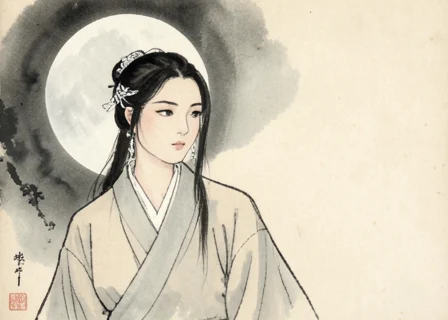
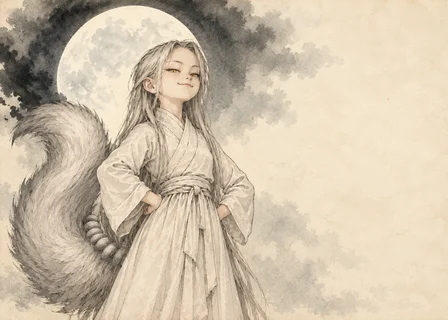
lingjing 银月: repaint her portrait and card as a girl of fourteen — 第一回 「看着比他大不了几岁」
Hanli 2026-10-01: 沈小满 is twelve, so 银月 should be a girl, not the grown
woman both pictures showed. Painted with Codex (gpt-5.5): silver hair past
the waist, barefoot, white robe, gold slit-pupil eyes, one tail with eight
furred stumps, chin up, hands on hips, a sly grin. The card follows the
portrait in the deck's ink-wash layout. Prompts in tools/paint-codex.py,
record in CREDITS.md, codex.json _credit, cards.json art_source.

diff --git a/lingjing/tools/paint-codex.py b/lingjing/tools/paint-codex.py
@@ -34,6 +34,9 @@ STYLE = ('Fine graphite and ink baimiao line drawing with a soft grey wash, on w
          'Chinese illustrated book. A single subject, plain empty background. No text, no characters, no calligraphy, '
          'no seal, no signature, no border, no frame, no dark edge or vignette — the paper runs to every edge. Ink and grey '
          'only, with at most a very faint warm tint; no strong colour.')
+YINYUE_FIX = ('Repaint the attached drawing; keep everything the same and change ONLY: at the root of the one big tail exactly '
+              'EIGHT short healed stubs, furred silver, in a small fan (not red, no raw flesh); golden irises with clear narrow '
+              'VERTICAL slit pupils. No fox ears.')
 OLD_CHINA = 'Set in old rural China (Ming dynasty dress), not Japanese, not Western.'
 
 PEOPLE = {
@@ -46,7 +49,10 @@ PEOPLE = {
   'jiujiu': 'A thin Chinese county-town bookkeeper in his thirties, a NEW neat blue-grey cotton scholar gown with a crossed collar (a light grey wash), a thin careful face, a folded paper in one hand and a small abacus hanging at his sash, a trace of old disappointment in his eyes. Full length, standing on bare paper — no black frame, no border, no dark background.',
   'laozhou': 'A sturdy middle-aged Chinese peasant farmer, plain face, patched cotton clothes, a straw rain cape over his shoulders, mud on his trouser legs, holding a burning pine torch. Full length.',
   'qulao': 'A very old Taoist temple steward, lean and straight, long white beard, stern eyes, plain grey Taoist robe, a bamboo broom in his hands. Full length.',
-  'yinyue': 'A young woman with long silver hair falling past her waist, golden eyes, barefoot, in a plain white robe, one silver fox tail behind her, a proud aloof expression. Full length.',
+  # 银月 — 第一回: 「看着比他大不了几岁」, 小满 is twelve (Hanli, 2026-10-01: the first portrait drew a grown woman).
+  # Repainted 2026-10-01 in two passes: this prompt (the kept roll), then the roll handed back with YINYUE_FIX.
+  'yinyue': "银月, a fox spirit queen in human form, as a GIRL of about fourteen or fifteen — clearly a young teenager, not a woman: a youthful round-chinned girl's face, a small slight not-yet-grown build, narrow shoulders, flat chest, short of stature, a young teen's proportions (head about one-sixth of her height). Completely modest and non-sexual: the robe closed high at the neck. Silver hair, very long and loose, falling straight to below her waist. Barefoot. A plain modest white robe with a crossed collar tied with a sash, snow-white with a faint watery sheen. Golden eyes (a faint gold tint) with narrow vertical slit pupils. ONE big fluffy silver fox tail; at its root eight short cut stumps. Chin slightly raised, looking down her nose, hands on her hips — proud and imperious, a bit hungry and impish, a sly half-grin. No fox ears. Full length.",
+
   'chuxiansheng': 'A Chinese Taoist lecturer of about fifty with a small goat beard, a sour sharp face, plain grey scholar robe with a crossed collar, holding a thread-bound Chinese book rolled in one hand. Full length.',
   'sunergou': 'A thin timid Chinese boy of fourteen, a worried face, a plain grey Taoist disciple robe with a crossed collar and cloth sash, cloth shoes, clutching a small hand-sewn cloth charm pouch to his chest. Full length.',
   'neimen-shijie': 'A composed Chinese Taoist girl disciple of about sixteen, hair in a high bun with a plain wooden pin, a plain pale blue Taoist robe, a straight double-edged Chinese jian sword at her back, calm sharp eyes. Full length.',

diff --git a/lingjing/tools/paint-cards.py b/lingjing/tools/paint-cards.py
@@ -30,7 +30,8 @@ SUBJECTS = {
   # ── 小随从 ──
   'xiaoyao': 'a small mischievous mountain imp crouching on a rock, thin limbs, big ears',
   'shanjing': 'a squat moss-covered hill spirit made of stone and roots, arms folded, standing guard',
-  'yinyue': 'a young woman in pale robes under a full moon, silver hairpin, calm and watchful',
+  # yinyue's card was repainted with Codex 2026-10-01 from her 图鉴 portrait (a girl of 14–15, not this woman); see CREDITS.md.
+  'yinyue': 'a silver-haired girl of fourteen in a white robe under a full moon, one silver fox tail, proud and impish',
   'luying': 'the shadow of a leaping deer over rippling water, antlers catching the light',
   'xianshi': 'a small bird carrying a pebble in its beak over grey sea waves',
   'leipu': 'a small thunder servant with a drum on its back, crackling sparks at its heels',

diff --git a/lingjing/worlds/jiuding/art/CREDITS.md b/lingjing/worlds/jiuding/art/CREDITS.md
@@ -132,3 +132,18 @@ The chapter has no story panels (his ruling, 2026-09-29). No outside source.
 ## 第十回 · 漳水立起 — set-piece stills (2026-09-30)
 
 `setpiece/zhang-a.webp`, `zhang-b.webp`, `zhang-c.webp`, `zhang-e.webp`, `zhang-f.webp` — five key frames for 卷一's 大场面 (the 漳水 standing up; 冰夷 on his two dragons; the trial; the 洛书 seal on the square four-legged 冀州鼎 under the river; the 鼎 rising at moonrise), following 10-第十回.md: painted with Codex CLI's image generation (gpt-5.5, 1536×1024), 2026-09-30, the frames with people given art/people/bingyi.webp, xiaoman.webp, doufu-xishi.webp (and for f art/items/fox-token.webp) as references, and e/f given a and c as style references. Hanli kept a, b, c and dropped d; e and f were repainted to his note (a square 方鼎 with four legs; 银月 curled inside the jacket, the token's second tail lit). Rejected on the way: a vignetted c, a crowned 冰夷, a photoreal round-鼎 e, a pasted-card e whose tiles Codex overlaid with code, a pendant-shaped token in f. Codex ran out of credits during the last e round; local FLUX (FLUX.2 klein 4B, four seeds) was tried for e and looked at, and did not reach the style of a–c (not underwater, a small child, random dots), so e is the first repaint. Every picture looked at. No outside source. Frame e repainted with Codex 2026-10-01 (tools/paint-setpiece-codex.py), the kept e handed in as the picture to repaint: the 洛书 counts now read 4 9 2 / 3 5 7 / 8 1 6, odd white, even black, all else as it was. The first roll had 8 for 7 and 12 for 8; a second pass on that roll fixed only those two tiles. Every tile counted by eye.
+
+## 银月 at fourteen — portrait and card repainted (2026-10-01)
+
+Hanli's note: 「沈小满12, 银月应该也差不多年纪吧……应该是个女孩子?」 — 第一回 has her 「看着比他大不了几岁」, and both
+the portrait and the card had drawn a grown woman. `people/yinyue.webp` (640×960, webp q84) was repainted with Codex
+CLI's image generation (gpt-5.5), 2026-10-01, from the prompt now in `tools/paint-codex.py`: a girl of fourteen or
+fifteen with a slight, not-yet-grown build in a modest white robe, silver hair past the waist, barefoot, gold
+slit-pupil eyes, one tail with eight stumps at its root, chin up, hands on hips, a sly half-grin. Two passes: the kept
+text-only roll was handed back to Codex to fix only the stumps and the eyes (`YINYUE_FIX`). Rejected on the way: three
+rolls with the old portrait as the style reference (each still a tall young woman), one with fox ears, a kept roll's
+five raw red stumps, and a re-roll whose stubs came out five or six. `cards/yinyue.webp` (448×320, webp q86) was
+repainted the same day with Codex, given the new portrait as the character and the old FLUX card as the ink-wash
+style and layout (the moon on the left); two first rolls without the portrait still read as a young lady with
+hairpins. The FLUX card of 2026-09-18 and the FLUX/Codex portraits before it are in git history. Every picture looked
+at. No outside source.
